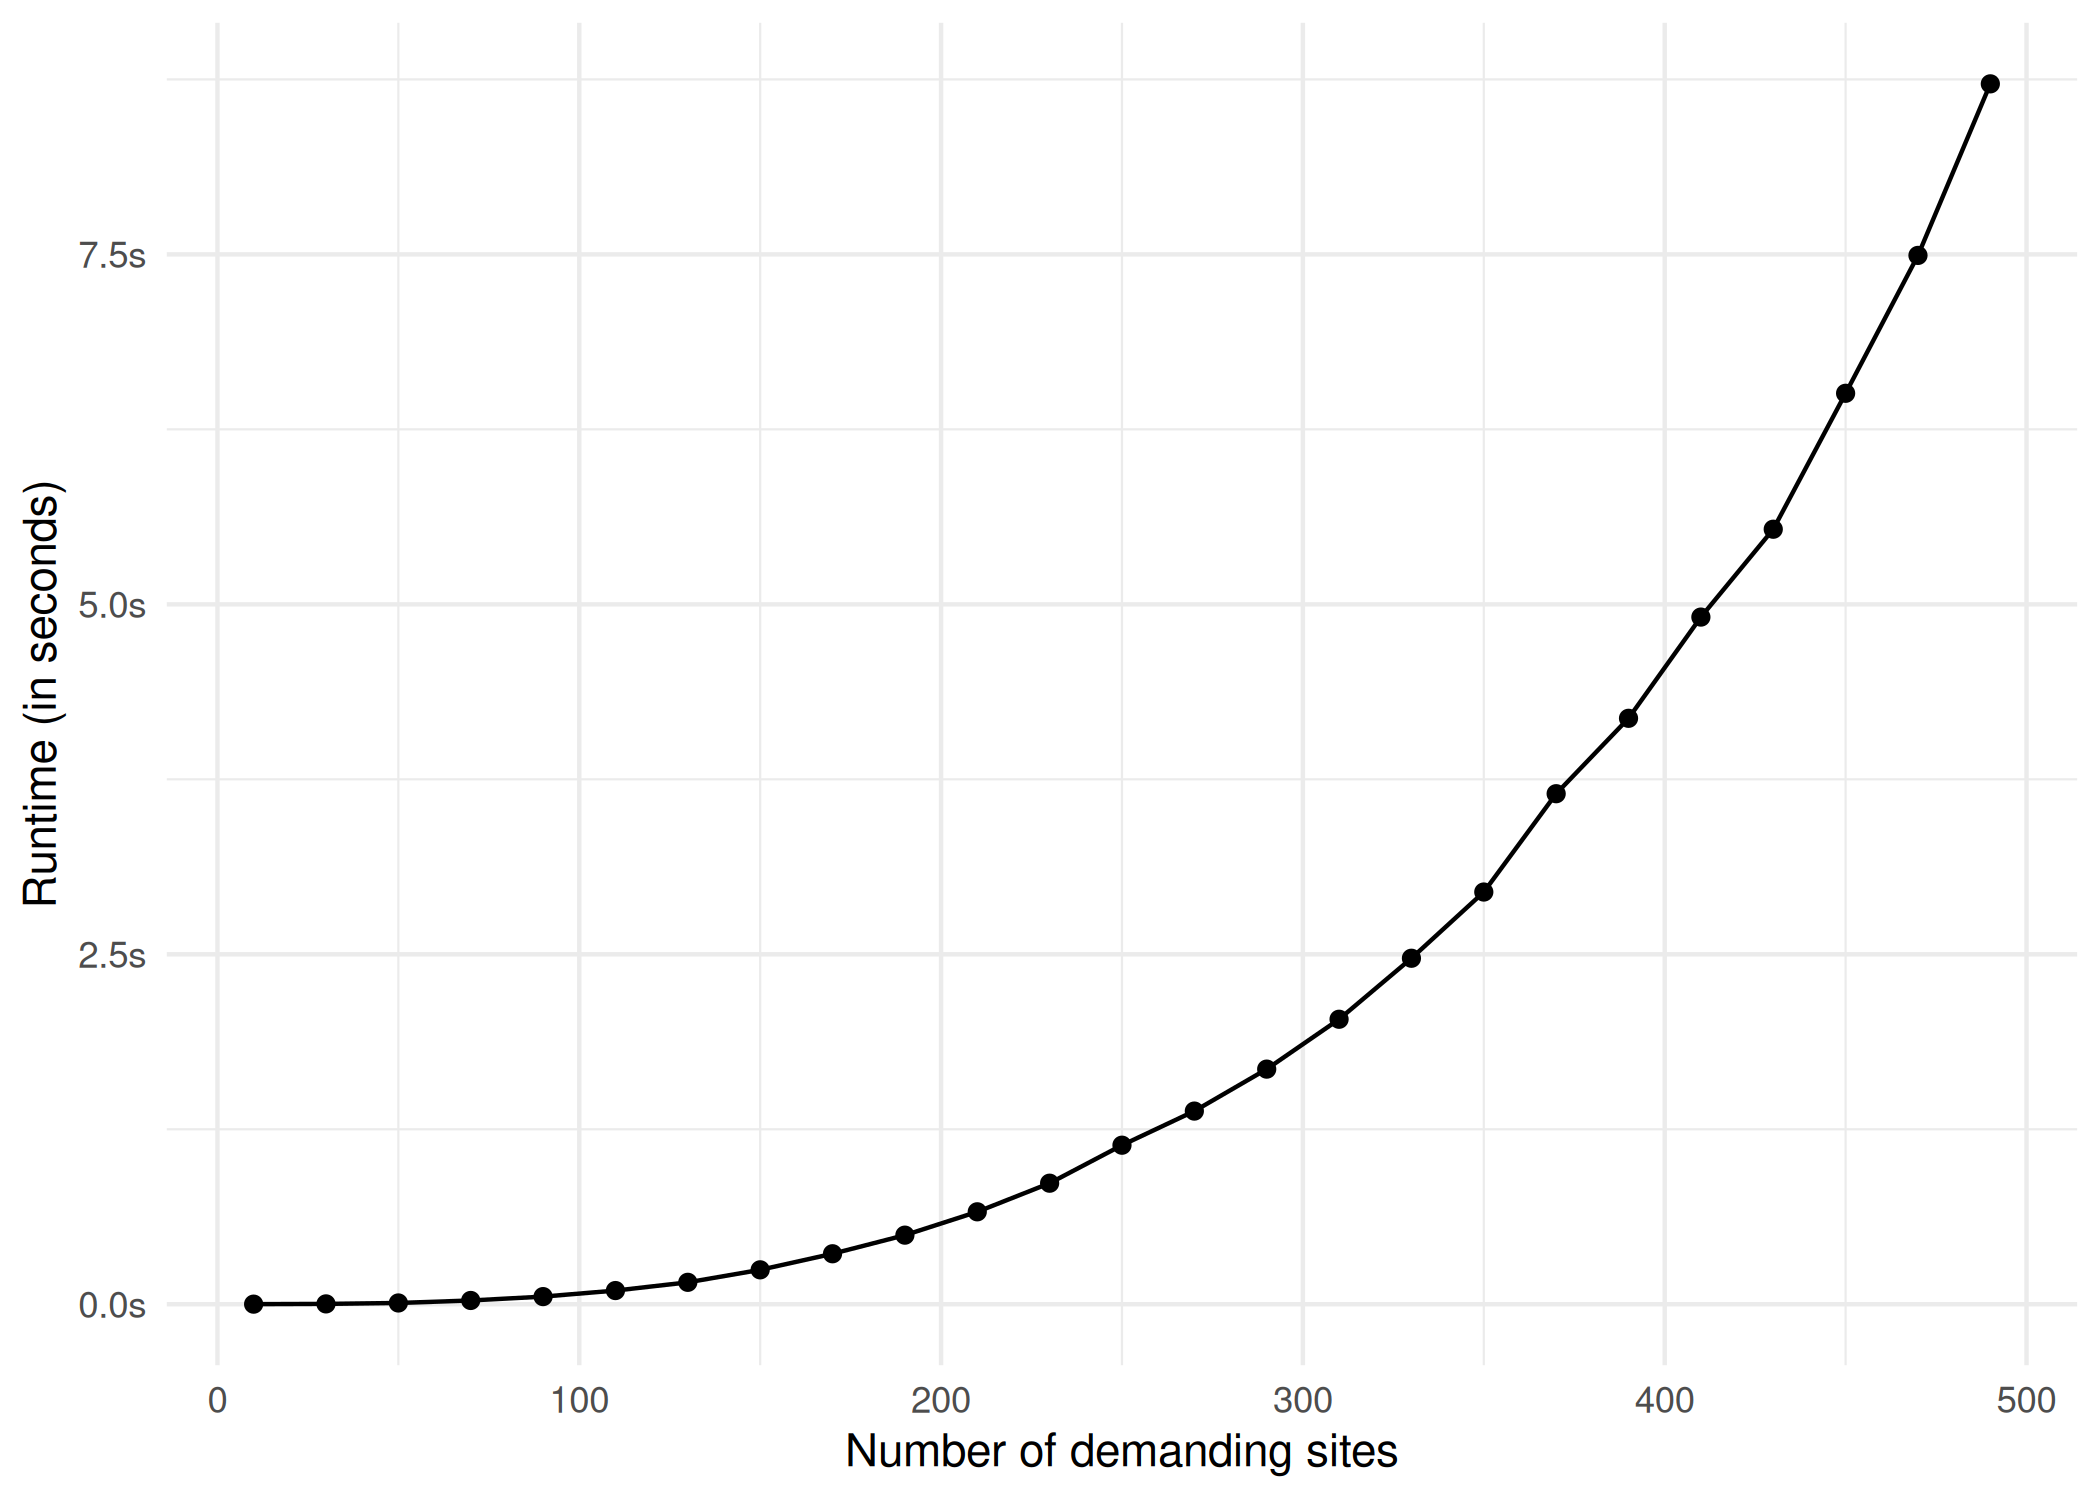
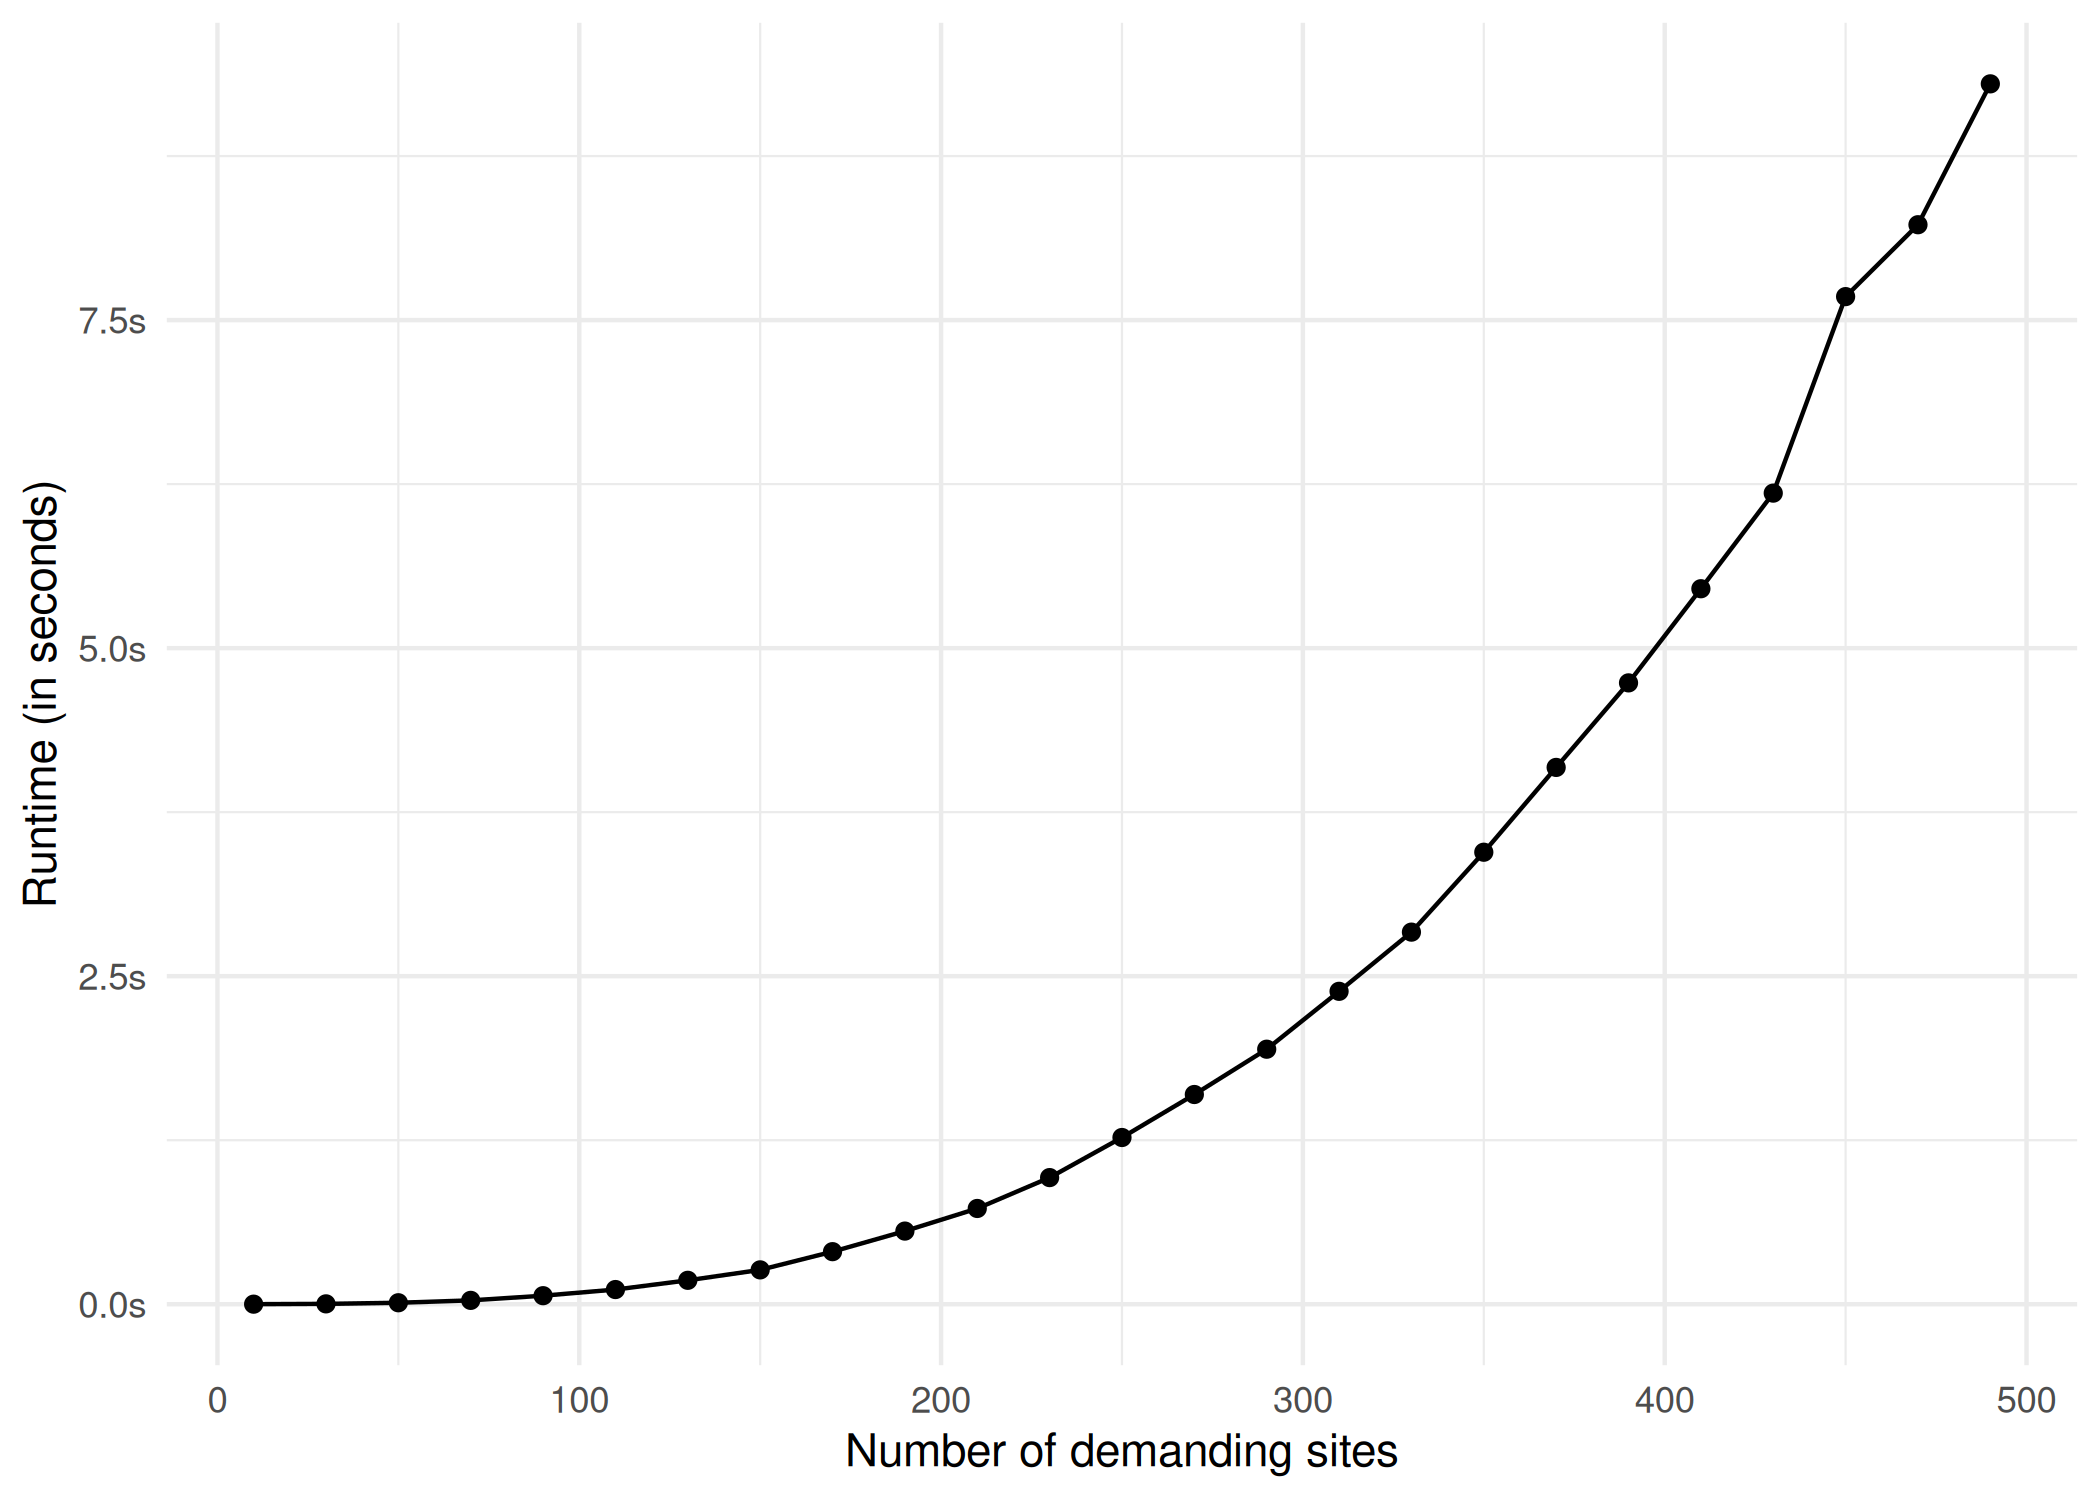
update README

diff --git a/README.md b/README.md
@@ -56,27 +56,27 @@ res <-
   )
 
 print(res)
-#>    run_id order vehicle_id
-#> 1       0     0          0
-#> 2       1     0          0
-#> 3       0     2          0
-#> 4       2     1          0
-#> 5       1     1          0
-#> 6       3     6          0
-#> 7       3     8          0
-#> 8       3     4          0
-#> 9       3     7          0
-#> 10      3     3          0
-#> 11      3     1          0
-#> 12      3     2          0
-#> 13      4     0          0
-#> 14      3     5          0
-#> 15      4     2          0
-#> 16      2     0          0
-#> 17      4     3          0
-#> 18      4     1          0
-#> 19      0     1          0
-#> 20      3     0          0
+#>    site run order vehicle
+#> 1     0   0     0       0
+#> 2     1   1     0       0
+#> 3     2   0     2       0
+#> 4     3   2     1       0
+#> 5     4   1     1       0
+#> 6     5   3     6       0
+#> 7     6   3     8       0
+#> 8     7   3     4       0
+#> 9     8   3     7       0
+#> 10    9   3     3       0
+#> 11   10   3     1       0
+#> 12   11   3     2       0
+#> 13   12   4     0       0
+#> 14   13   3     5       0
+#> 15   14   4     2       0
+#> 16   15   2     0       0
+#> 17   16   4     3       0
+#> 18   17   4     1       0
+#> 19   18   0     1       0
+#> 20   19   3     0       0
 ```
 
 A plotting function (using [ggplot](https://ggplot2.tidyverse.org/)) for
@@ -98,7 +98,7 @@ CPU, using the R package [bench](https://bench.r-lib.org/).
 The following graph shows the run time behavior as the number of sites
 $n$ increase. The curve exhibits near-cubic behavior in $n$. For
 $n = 110$ the performance is still relatively reasonable with a run time
-of approximately $\sim 97 ms$.
+of approximately $\sim 110 ms$.
 
 <img src="man/figures/README-benchmark_runtime-1.png" width="100%" />
 
